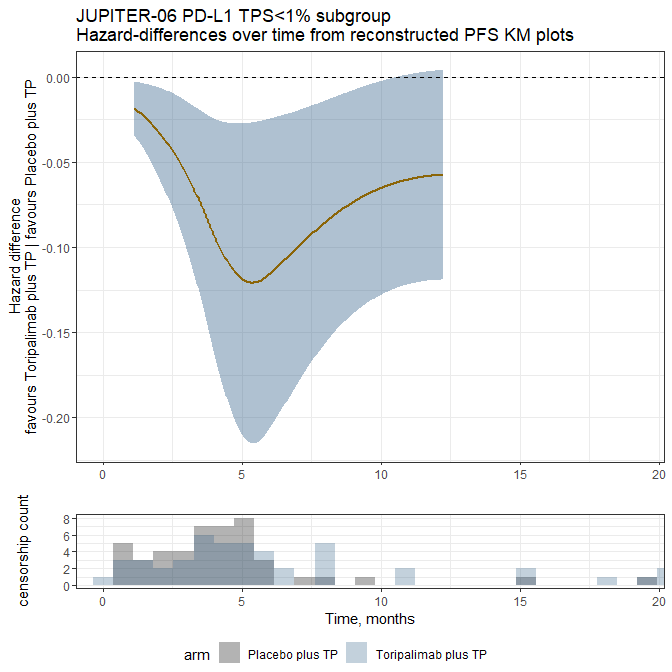
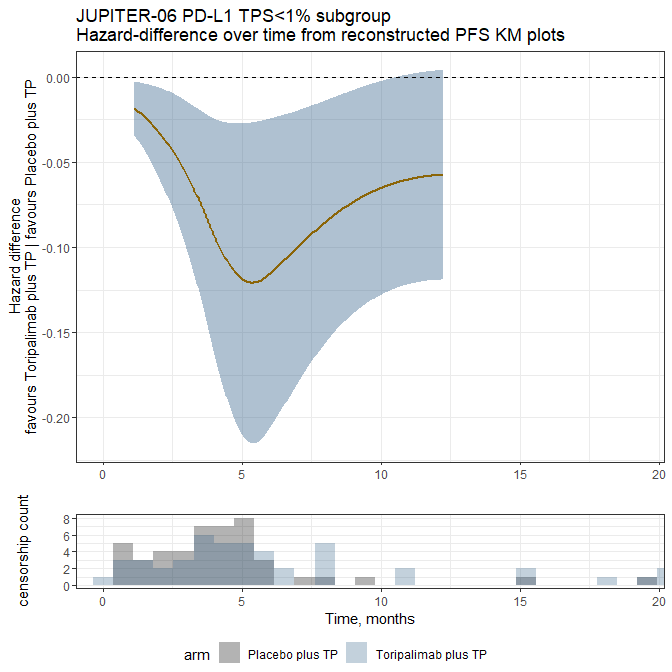
.

Changed region(s): [[0.3125, 0.0312, 0.875, 0.0625]]

diff --git a/README.md b/README.md
@@ -179,9 +179,10 @@ for (i.outcome in unique(df$outcome)){
             coord_cartesian(xlim=c(0, 0.9*max(df_temp$time)))+
             geom_hline(yintercept=0, linetype="dashed")+
             labs(color="black", x = "", y = "Hazard difference\nfavours Toripalimab plus TP | favours Placebo plus TP", 
-                 title = paste0("JUPITER-06 PD-L1 TPS<1% subgroup\nHazard-differences over time from reconstructed ", i.outcome, " KM plots"), face="bold")
+                 title = paste0("JUPITER-06 PD-L1 TPS<1% subgroup\nHazard-difference over time from reconstructed ", i.outcome, " KM plots"), face="bold")
   
   
+  # historam for censorship counts
   df_temp_censor=subset(df, df$status==0 & df$outcome==i.outcome)
     
   plot_censor=ggplot(aes(x=time, fill=arm), data=df_temp_censor)+
